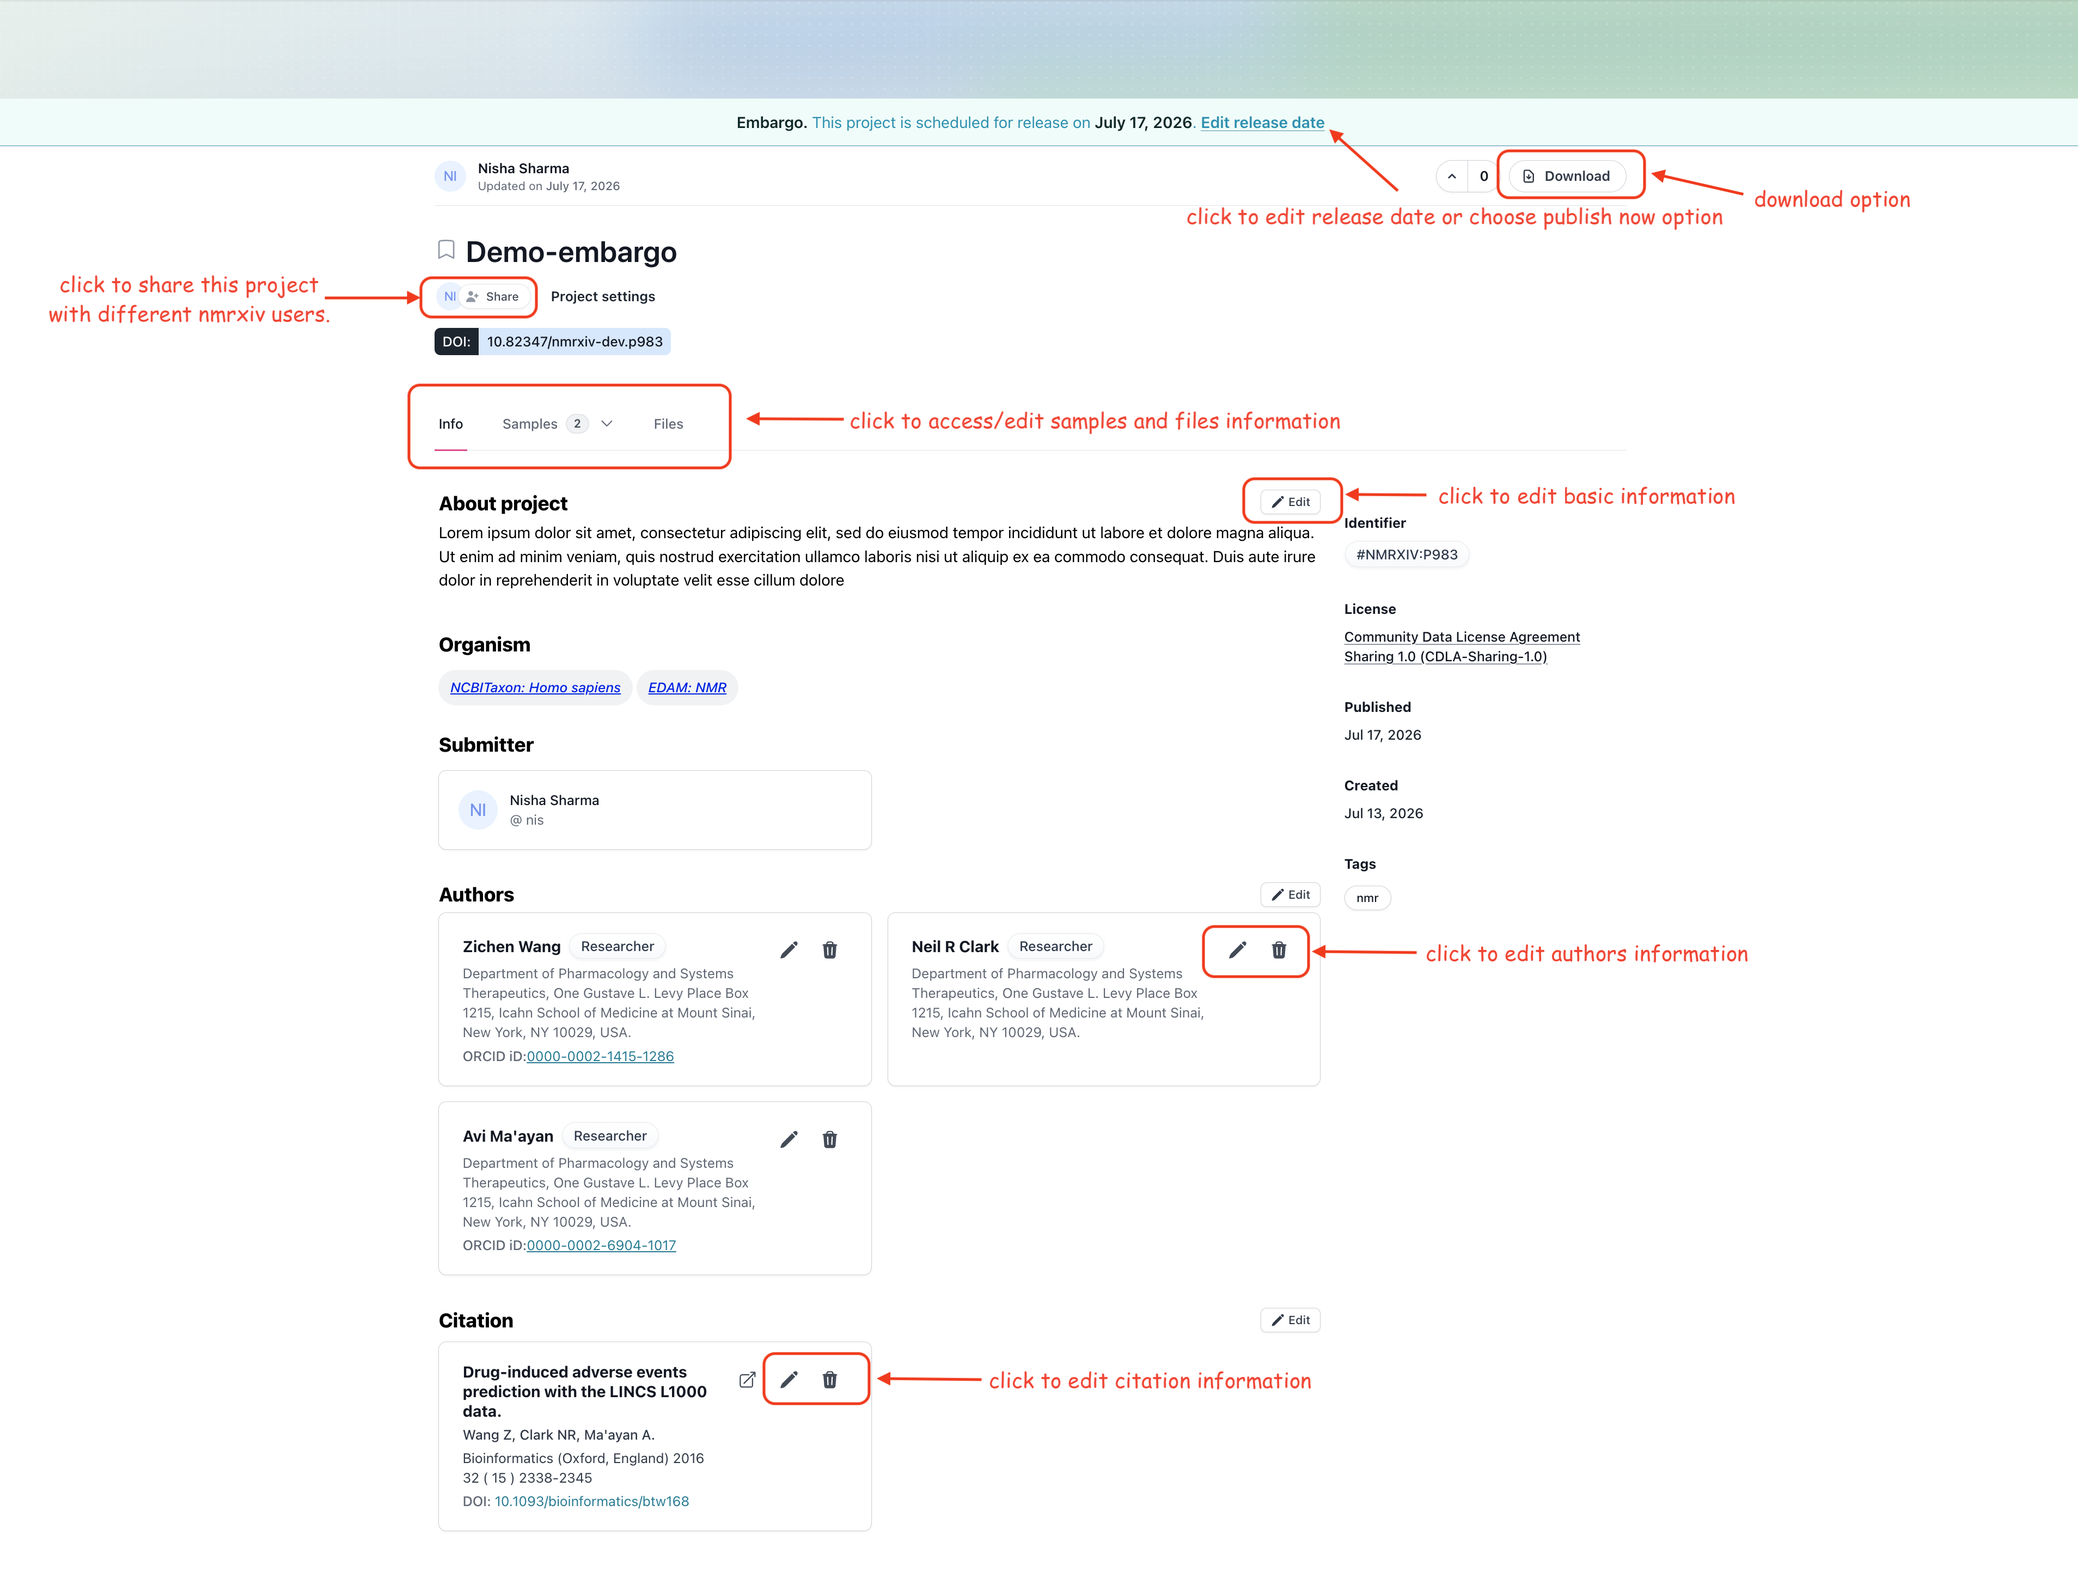
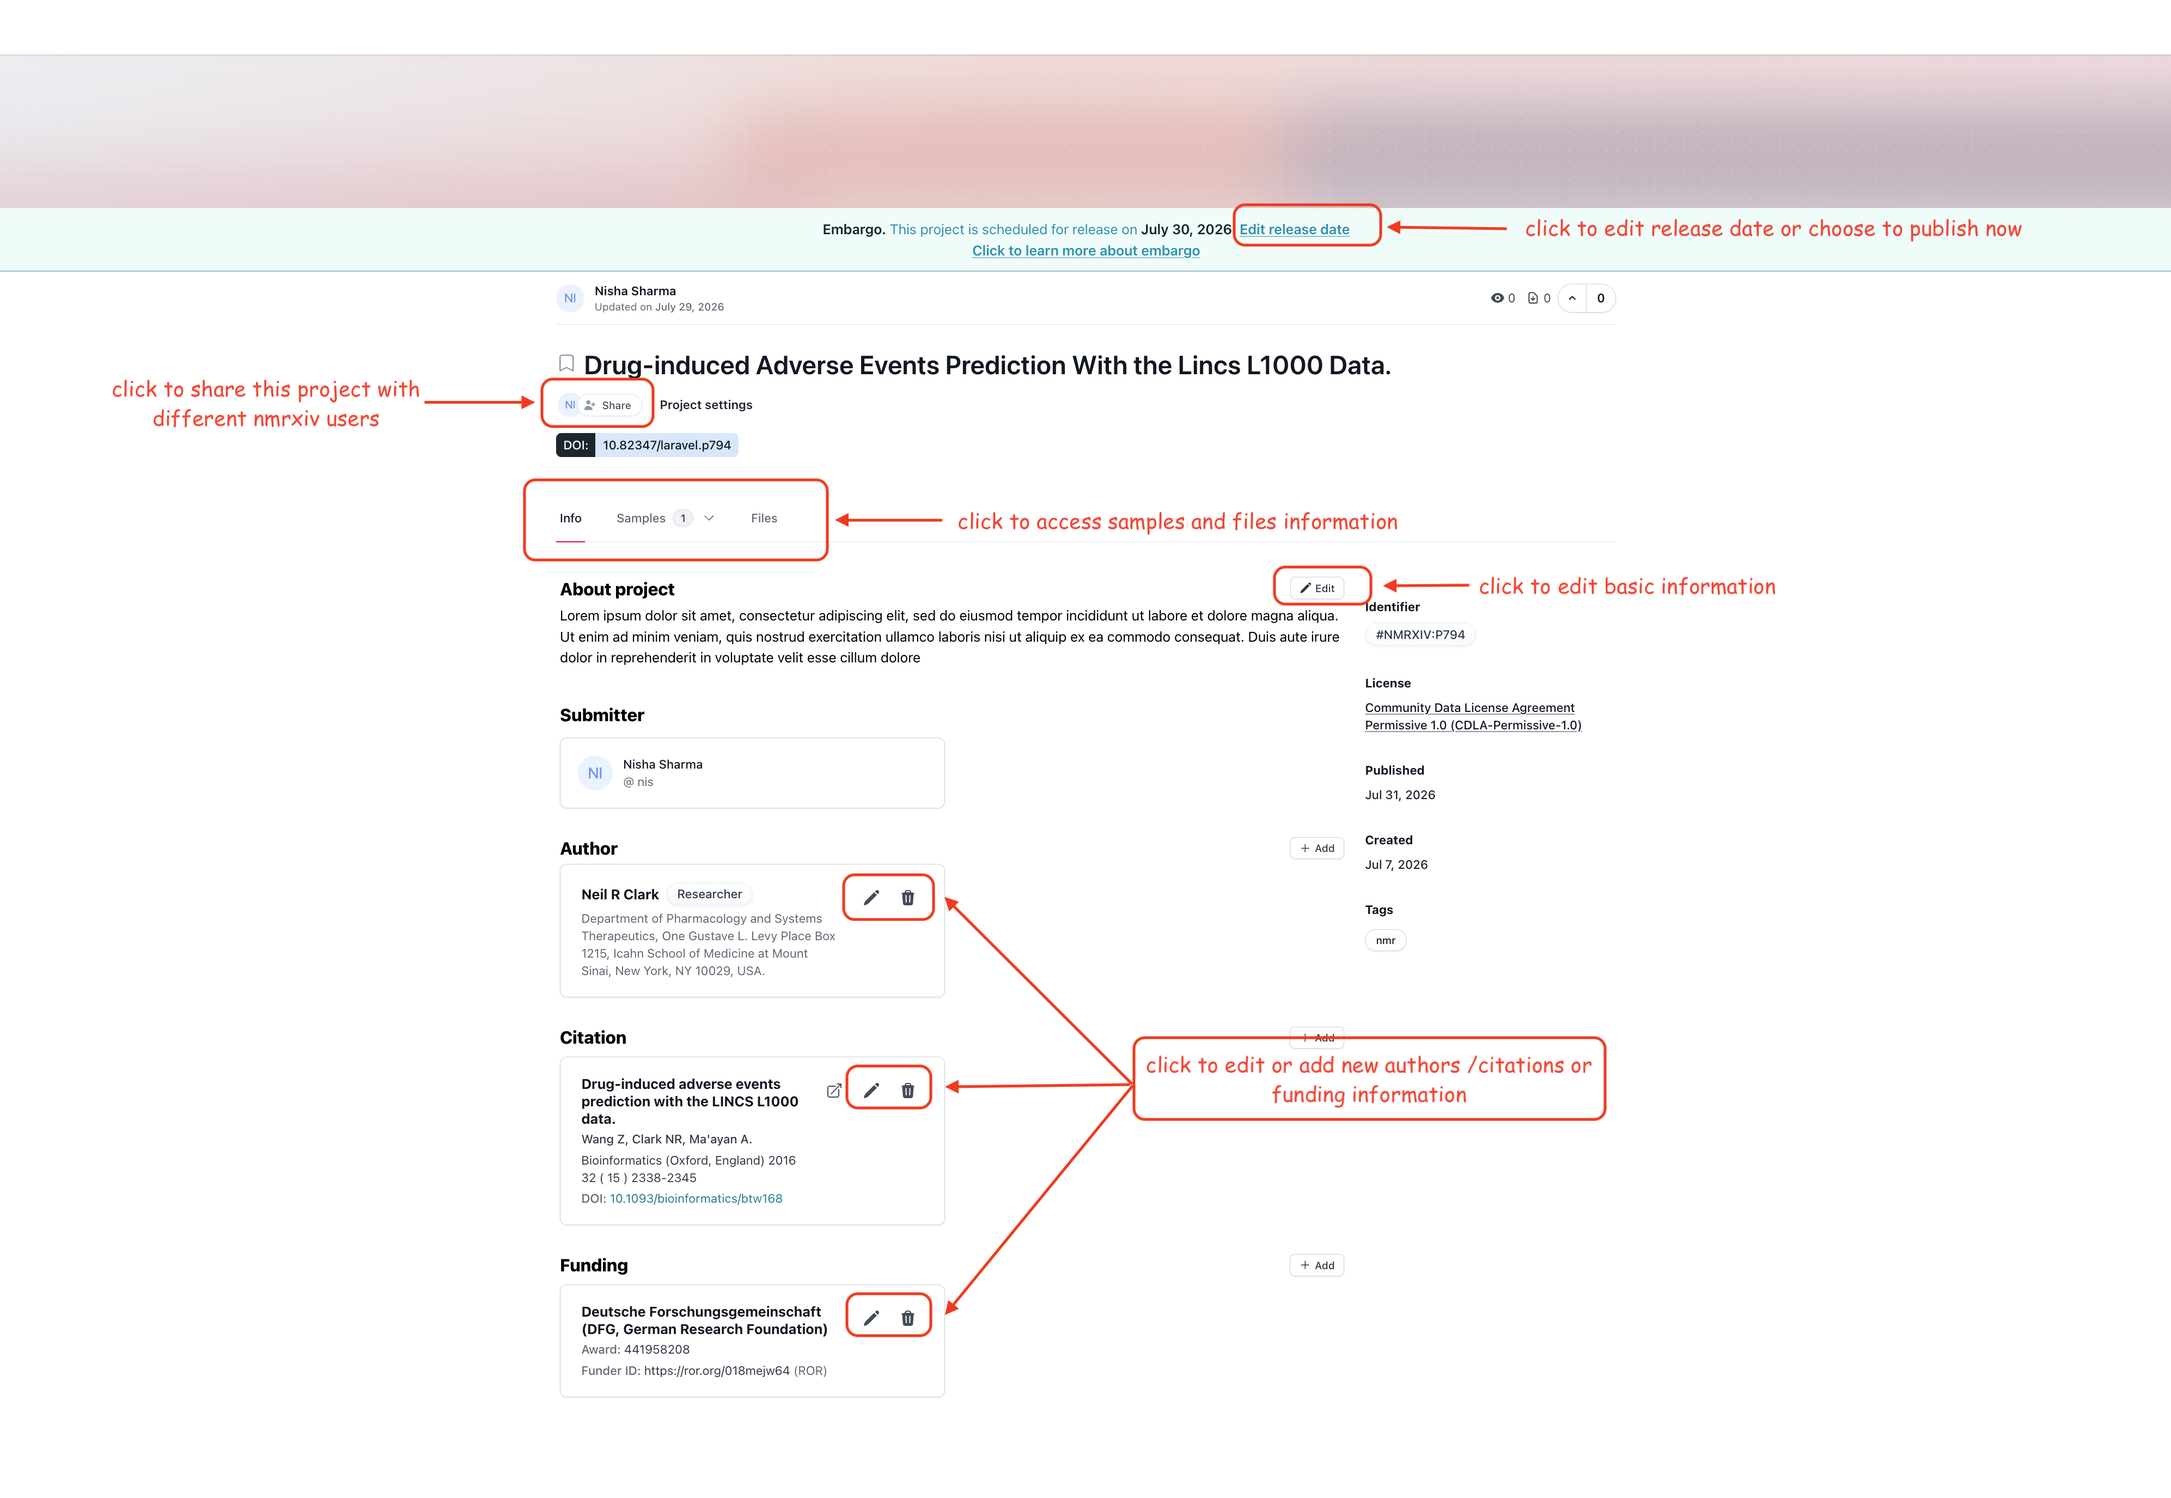
docs: update embargo info page - add funding reference to embargo and publication deposition pages

diff --git a/resources/js/Pages/Publish.vue b/resources/js/Pages/Publish.vue
@@ -1077,7 +1077,14 @@
                                                 <span
                                                     >Modify the release date or
                                                     publish instantly from your
-                                                    dashboard</span
+                                                    dashboard
+                                                </span>
+                                                <a
+                                                    href="https://docs.nmrxiv.org/submission-guides/submission-process.html#step-3-publish-data"
+                                                    target="_blank"
+                                                    class="font-small text-primary-400 underline decoration-primary-300 underline-offset-2 hover:text-primary-800 hover:decoration-primary-500 ml-1"
+                                                    >Click to learn more about
+                                                    embargo.</a
                                                 >
                                             </li>
                                         </ul>
@@ -1511,7 +1518,7 @@
                                 target="_blank"
                                 rel="noreferrer"
                                 class="font-medium text-primary-600 underline decoration-primary-300 underline-offset-2 hover:text-primary-800 hover:decoration-primary-500"
-                                >Learn more</a
+                                >Click to learn more about embargo</a
                             >
                         </span>
                         <span v-else>

diff --git a/resources/js/Pages/Public/Project/Layout.vue b/resources/js/Pages/Public/Project/Layout.vue
@@ -86,7 +86,7 @@
                                 rel="noreferrer"
                                 class="font-medium text-primary-600 underline decoration-primary-300 underline-offset-2 hover:text-primary-800 hover:decoration-primary-500"
                             >
-                                Learn more.
+                                Click to learn more about embargo.
                             </a>
                         </p>
                         <button
@@ -124,6 +124,14 @@
                             >
                                 Edit release date
                             </button>
+                            <a
+                                href="https://docs.nmrxiv.org/submission-guides/embargo.html"
+                                target="_blank"
+                                rel="noreferrer"
+                                class="whitespace-nowrap font-semibold text-teal-800 underline decoration-teal-600/45 underline-offset-2 hover:text-teal-950 dark:text-teal-200 dark:decoration-teal-300/50 dark:hover:text-white"
+                            >
+                                Click to learn more about embargo
+                            </a>
                         </p>
                     </div>
                     <template v-else-if="dashboardProject.is_public">

diff --git a/resources/js/Shared/ManageCitation.vue b/resources/js/Shared/ManageCitation.vue
@@ -38,6 +38,14 @@
                                     reviewing this section and adding any
                                     missing DOIs before making the project
                                     public.
+                                    <a
+                                        href="https://docs.nmrxiv.org/submission-guides/embargo.html"
+                                        target="_blank"
+                                        rel="noreferrer"
+                                        class="font-medium text-primary-700 underline decoration-primary-300 underline-offset-2 hover:text-primary-900"
+                                    >
+                                        Click to learn more about embargo.
+                                    </a>
                                 </p>
                             </div>
                         </div>

diff --git a/resources/js/Pages/Project/Show.vue b/resources/js/Pages/Project/Show.vue
@@ -27,6 +27,14 @@
                 <b>Info: </b> This project is in embargo and set to be released
                 on {{ formatDate(project.release_date) }}. You cannot edit the
                 project, please create a new version to update the project.
+                <a
+                    href="https://docs.nmrxiv.org/submission-guides/embargo.html"
+                    target="_blank"
+                    rel="noreferrer"
+                    class="font-medium text-green-800 underline decoration-green-600/45 underline-offset-2 hover:text-green-950"
+                >
+                    Click to learn more about embargo.
+                </a>
             </div>
             <div v-if="project.is_public">
                 <div

diff --git a/resources/js/Pages/Study/Layout.vue b/resources/js/Pages/Study/Layout.vue
@@ -24,6 +24,14 @@
                 on {{ formatDate(study.release_date) }}. You cannot edit the
                 sample. Contact us at info.nmrxiv@uni-jena.de if you need to
                 make changes.
+                <a
+                    href="https://docs.nmrxiv.org/submission-guides/embargo.html"
+                    target="_blank"
+                    rel="noreferrer"
+                    class="font-medium text-green-800 underline decoration-green-600/45 underline-offset-2 hover:text-green-950"
+                >
+                    Click to learn more about embargo.
+                </a>
             </div>
             <div>
                 <div

diff --git a/docs/submission-guides/embargo.md b/docs/submission-guides/embargo.md
@@ -8,6 +8,40 @@ With embargo, nmrXiv keeps your project fully private (identifiers and a DOI are
 Embargo is only available for **project-level publications** ("Group as one publication"). Sample-level publications ("Publish each sample on its own") are always released immediately and cannot be embargoed. See [Publication Deposition](/submission-guides/publication-deposition.html) for the difference between the two modes.
 :::
 
+## When to Choose Embargo Publication
+
+Choose **Embargo** instead of an immediate public release when:
+
+-   your data supports a manuscript, thesis, or preprint that is **still under review or not yet published**, and you want to reserve a citable DOI for it now,
+-   a journal, funder, or institution **requires a fixed public release date** rather than immediate publication,
+-   you want your submission fully finalized, validated, and DOI-assigned today, but the actual public availability tied to a specific future date (e.g. an article's publication date or an agreed release window).
+
+Choose **immediate (public) release** instead when your manuscript/thesis is already published and there is no reason to delay public access to the data.
+
+::: warning
+Embargo only delays **public visibility** - it does not delay validation, identifier/DOI assignment, or finalization. Once submitted, your project, samples, and datasets are locked in as described below, exactly as they would be for an immediate release. Make sure everything is correct before submitting.
+:::
+
+## What You Can and Cannot Edit
+
+Submitting with embargo finalizes your samples, datasets, and files right away - only the **public visibility** is delayed. In short:
+
+**You can still edit** (until the project is public):
+
+-   project title, description, keywords, organism information,
+-   authors, citations and funding references (including adding a missing citation DOI),
+-   license,
+-   the scheduled release date, or release the project early with **Publish Now**.
+
+**Locked as soon as you submit** (embargoed or not):
+
+-   sample (study) details - name, description, keywords, structure/composition,
+-   spectra information - NMRium processing, peak picking, and assignments,
+-   dataset/assay metadata - technique, solvent, reference, temperature,
+-   files - no new files can be added, and existing files cannot be deleted.
+
+See [What You Can Still Edit](#what-you-can-still-edit) and [What Is Locked Once You Submit](#what-is-locked-once-you-submit) below for full details.
+
 ## Where This Fits in the Submission Flow
 
 Embargo is chosen in **Step 3 - Publish Data** of the [Publication Deposition](/submission-guides/publication-deposition.html) workflow, right after you have entered the project metadata (name, description, keywords, citations, authors, license).
@@ -60,16 +94,30 @@ Embargoed projects are visible to their owner and collaborators from the dashboa
 <img src="/img/embargo/4.png" width="1000"/>
 </p>
 
-On the project page itself, an **Embargo** banner shows the scheduled release date and an **Edit release date** link. While embargoed, you can still:
-
--   share reviewer access links for confidential peer review,
--   edit project/study/dataset metadata, authors, citations, and license,
--   change the scheduled release date (move it earlier or later),
--   release the project immediately using **Publish Now**.
+On the project page itself, an **Embargo** banner shows the scheduled release date and an **Edit release date** link.
 
 <p align="center">
 <img src="/img/embargo/7.png" width="1000"/>
 </p>
+
+### What You Can Still Edit
+
+While a project is embargoed, you can still:
+
+-   share reviewer access links for confidential peer review,
+-   edit **project-level** metadata: project title, description, keywords, organism information, authors, citations, funding references (including adding a missing citation DOI), and license,
+-   change the scheduled release date - move it earlier, later, or release immediately with **Publish Now**.
+
+### What Is Locked Once You Submit
+
+nmrXiv assigns permanent identifiers and DOIs to every sample and dataset as soon as your submission is processed - even during an embargo, before the project is public. To keep those identifiers meaningful and citable, the underlying scientific content they describe is frozen from that point on. This means the following can **no longer be changed**, whether the project is embargoed or already public:
+
+-   **sample (study) details** - name, description, keywords, chemical structure/composition,
+-   **spectra information** - NMRium processing state, peak picking, and atom/peak assignments,
+-   **dataset/assay metadata** - technique, solvent, reference, temperature,
+-   **raw or processed NMR files** - no new files can be added to a sample, and existing files cannot be deleted.
+
+If you spot an error in a sample, dataset, or file after submission, contact us at info.nmrxiv@uni-jena.de rather than trying to edit it directly.
 
 ::: danger
 Once a project becomes public (automatically on the release date, or manually via **Publish Now**), it can no longer be reverted to private or embargoed. Review your metadata carefully before the release date arrives.

diff --git a/docs/submission-guides/publication-deposition.md b/docs/submission-guides/publication-deposition.md
@@ -265,8 +265,36 @@ For project publication, complete the publication metadata:
 -   Citation - this field contains the article to which the submitted data is attached. You can either enter the citation details manually or import it directly from the DOI.
 -   Author - enter the details of the authors who are linked with the creation of the data. Again, these details can be entered manually or imported via ORCID IDs
 -   License - license is mandatory for making your data public. If you are not sure which license to use, please check the link [How to choose the right license?](/submission-guides/licenses).
+-   Funding (Optional) - declare third-party funding such as grants from research organizations. Funding references are included in your DataCite DOI metadata and improve discoverability. You can add or update funding references at any time; changes sync automatically when a DOI exists.
 
 The project name must be meaningful and cannot remain the default draft name.
+
+### Adding Funding References
+
+Funding references help document the sources of financial support for your research. They are particularly useful when your work was supported by grants or research funding organizations.
+
+**When to add funding references:**
+
+-   Your research was supported by a grant or award
+-   You want to acknowledge funding organizations in your DOI metadata
+-   Your funder requires data deposition with funding information
+
+**How to add a funding reference:**
+
+Click the **Add funding reference** button to open the funding reference form. You will be prompted to enter:
+
+-   **Funder name** (required) - the name of the organization or institution providing the funding, such as "Deutsche Forschungsgemeinschaft" or "National Science Foundation"
+-   **Funder identifier (Optional)** - a unique identifier for the funder, such as a ROR (Research Organization Registry) ID or DOI
+-   **Funder identifier type (Optional)** - the type of identifier provided (e.g., ROR, DOI, Crossref)
+-   **Award number (Optional)** - the grant or award number assigned by the funder
+-   **Award title (Optional)** - the name or title of the grant or award
+-   **Award URI (Optional)** - a link to the grant record or project page, such as a GEPRIS entry for DFG grants
+
+You can search for funding organizations by their name or ROR identifier. Funding references can be edited or deleted at any time before publication.
+
+<p align="center">
+<img src="/img/submission-process/publication-deposition/13.png" width="1000"/>
+</p>
 
 <p align="center">
 <video width="1000" controls autoplay loop muted playsinline>
@@ -278,6 +306,10 @@ The project name must be meaningful and cannot remain the default draft name.
 ## Release Date and Embargo
 
 If you choose today as the release date, nmrXiv queues the submission for immediate publication. If you choose a future release date, the project is kept under embargo and published automatically when the release date arrives. [Click on the link to learn complete details about the **Embargo** feature.](/submission-guides/embargo)
+
+**Funding references and embargo:**
+
+Funding references can be added or modified at any time during the embargo period. If your project has a reserved DOI, any updates to funding references will sync automatically to the DOI metadata, ensuring your funding information is always current.
 
 After publication, nmrXiv assigns identifiers and DOI metadata, moves files from draft storage to permanent publication storage, rebuilds public archives, and sends notifications.
 
